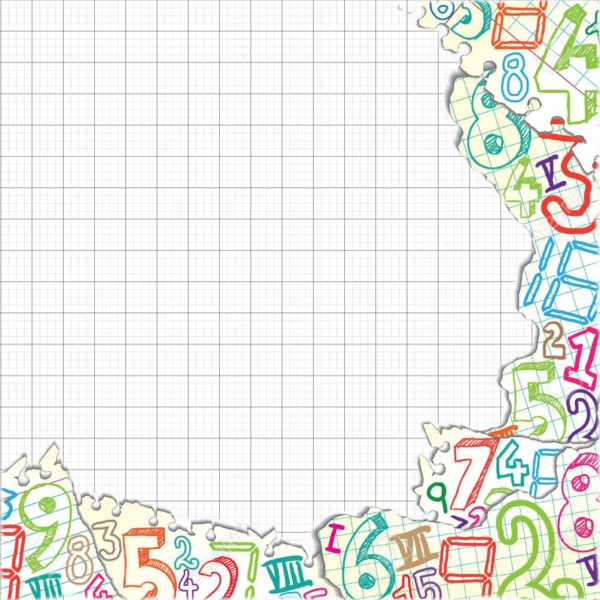
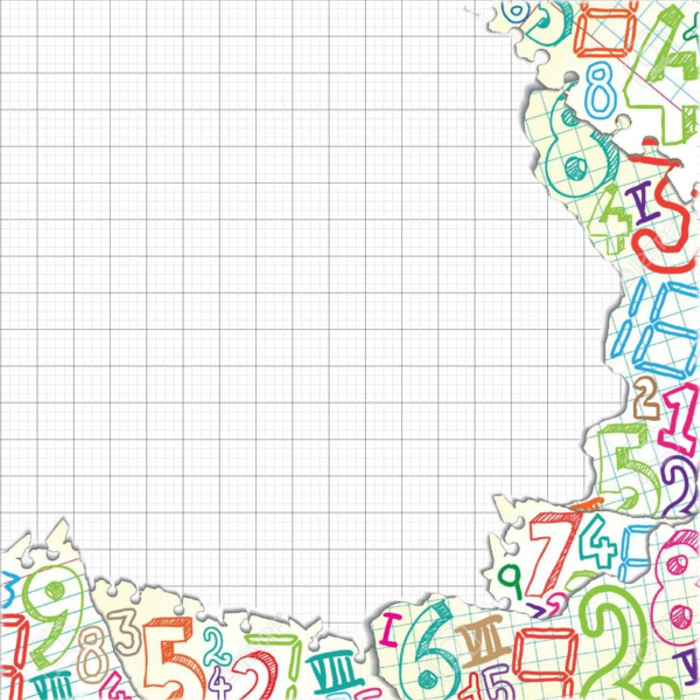
ui

diff --git a/src/cmsc142/project/sudoku/StartPanel.java b/src/cmsc142/project/sudoku/StartPanel.java
@@ -24,7 +24,7 @@ public class StartPanel extends JPanel implements ActionListener{
 	JButton exit;
 	private BufferedImage image;
 	public StartPanel(){
-		this.setPreferredSize(new Dimension(600,600));
+		this.setPreferredSize(new Dimension(700,600));
 		this.setComponents();
 		this.setVisible(true);
 		this.setFocusable(true);
@@ -43,7 +43,7 @@ public class StartPanel extends JPanel implements ActionListener{
 	}
 	
 	private void setComponents(){
-		sudoku = new JLabel(new ImageIcon("./resources/sudoku.png"));
+		sudoku = new JLabel(new ImageIcon("./resources/sudoku1.png"));
 		newGame = new JButton("New Game");
 		highScore = new JButton("High Score");
 		exit = new JButton("Exit");
